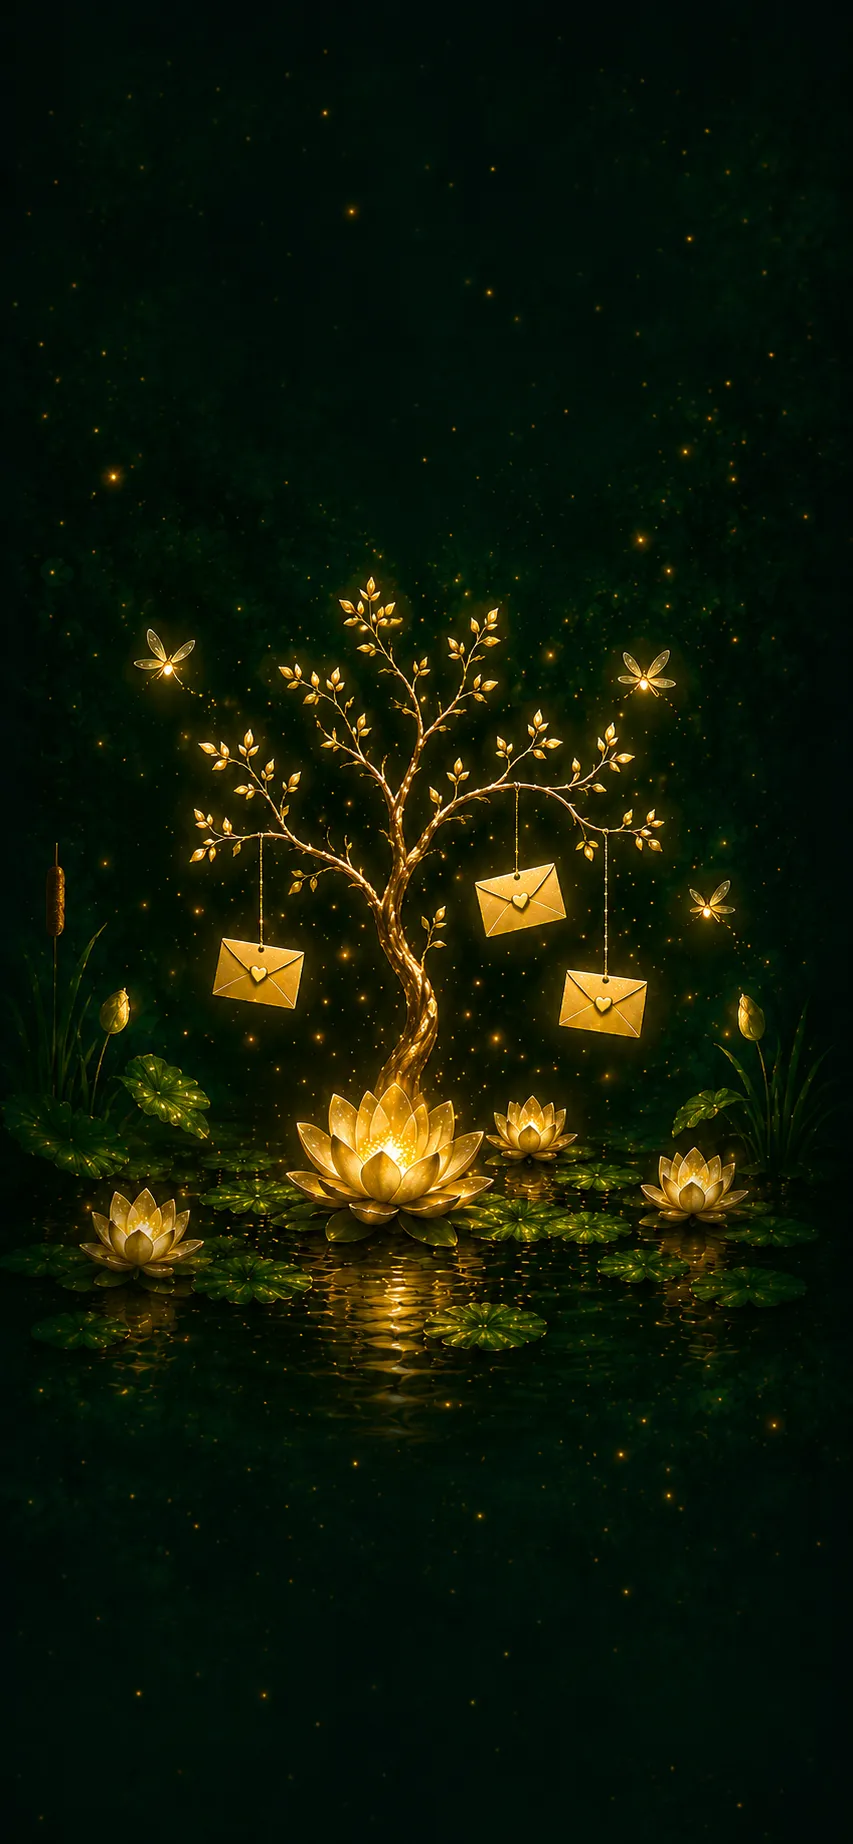
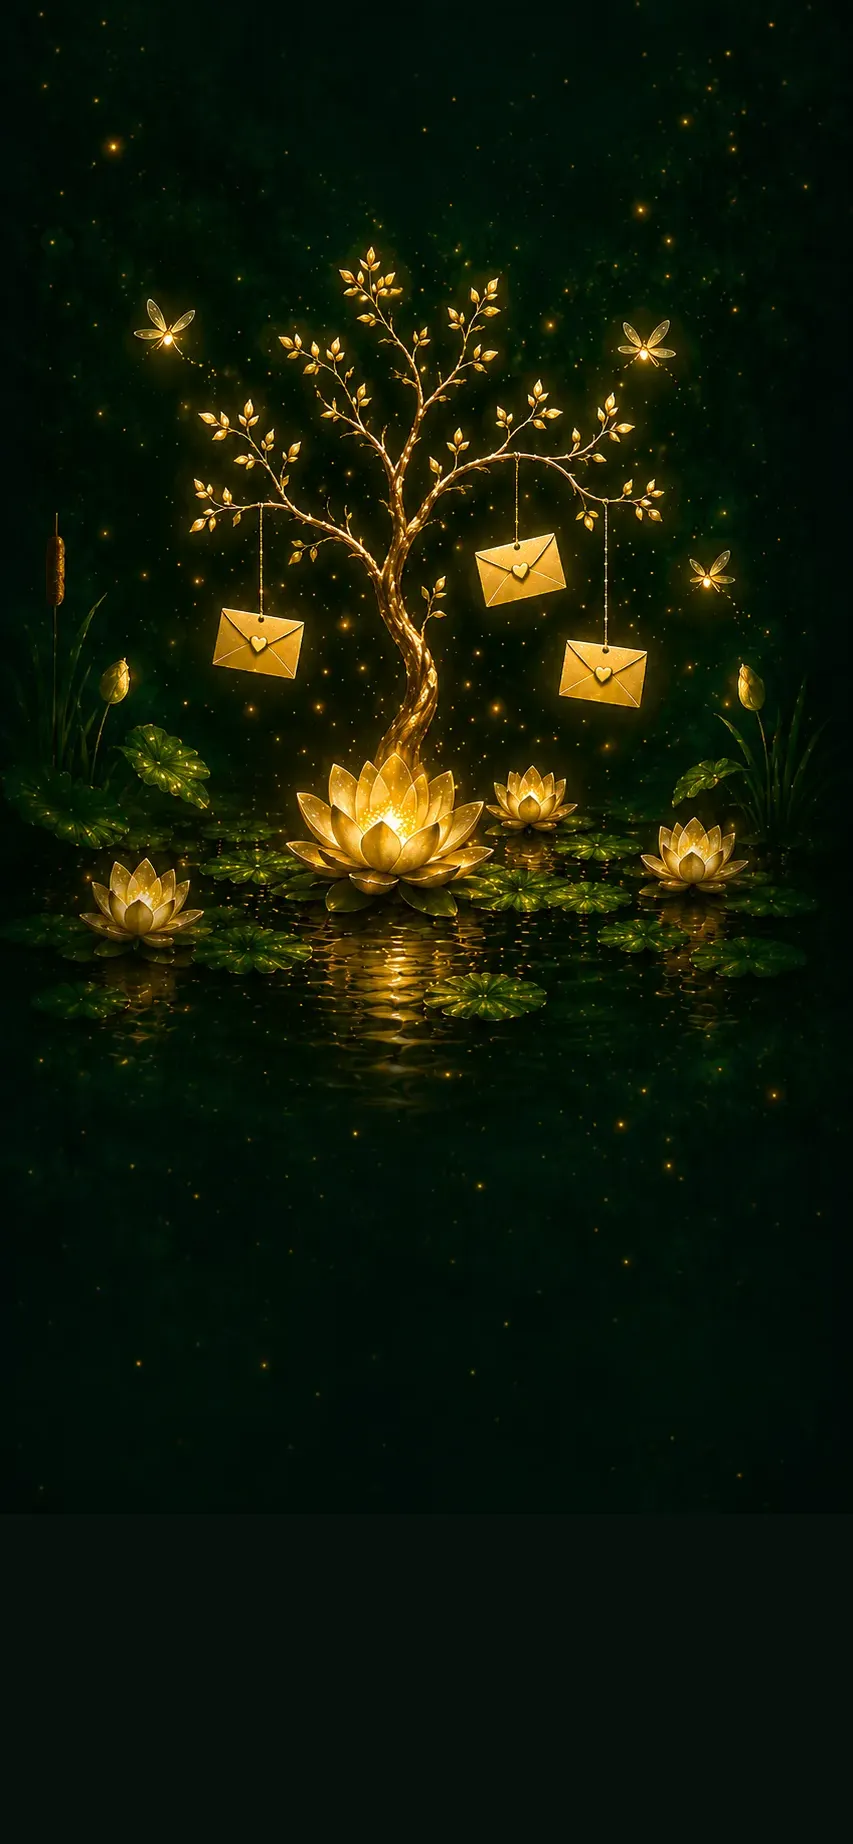
Movil Buenos Deseos: subir el arbol al espacio entre titulo y texto
Recompuesta la imagen (desplazada arriba ~330px, agua oscura extendida abajo)
para que el arbol quede centrado en el hueco entre el titulo y el texto, sin
que el estanque choque con el texto. data-bg-mobile ?v=2.

diff --git a/daniela-xv.html b/daniela-xv.html
@@ -723,7 +723,7 @@
   <div class="scene" id="scene-gifts">
 
     <!-- Fondo (árbol con sobres, lotos, libélulas) -->
-    <div id="gifts-bg" data-bg="fondo_lluvia_sobres.webp" data-bg-mobile="fondo_lluvia_movil.webp?v=1" data-scene="6"></div>
+    <div id="gifts-bg" data-bg="fondo_lluvia_sobres.webp" data-bg-mobile="fondo_lluvia_movil.webp?v=2" data-scene="6"></div>
     <div id="gifts-overlay"></div>
 
     <div id="gifts-content">
